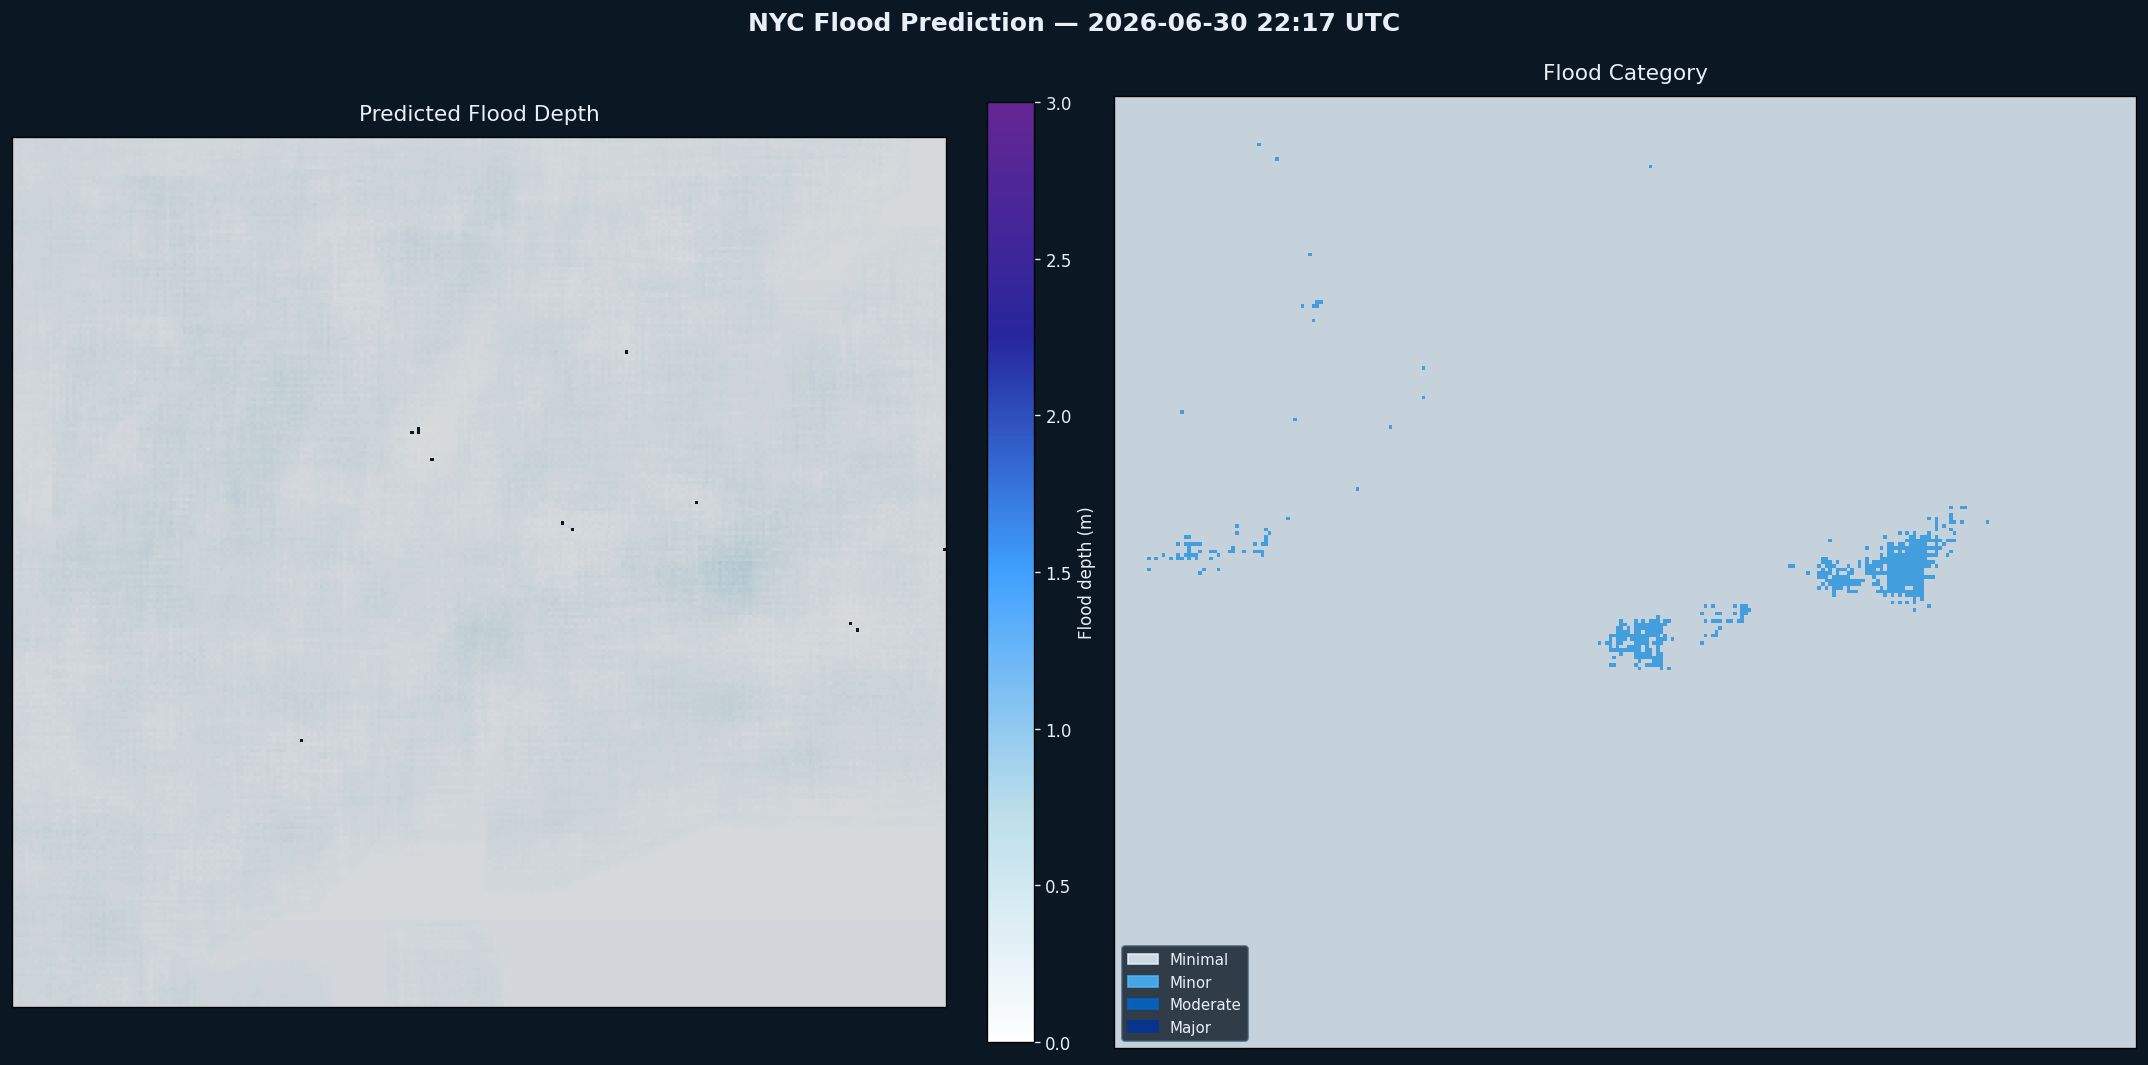
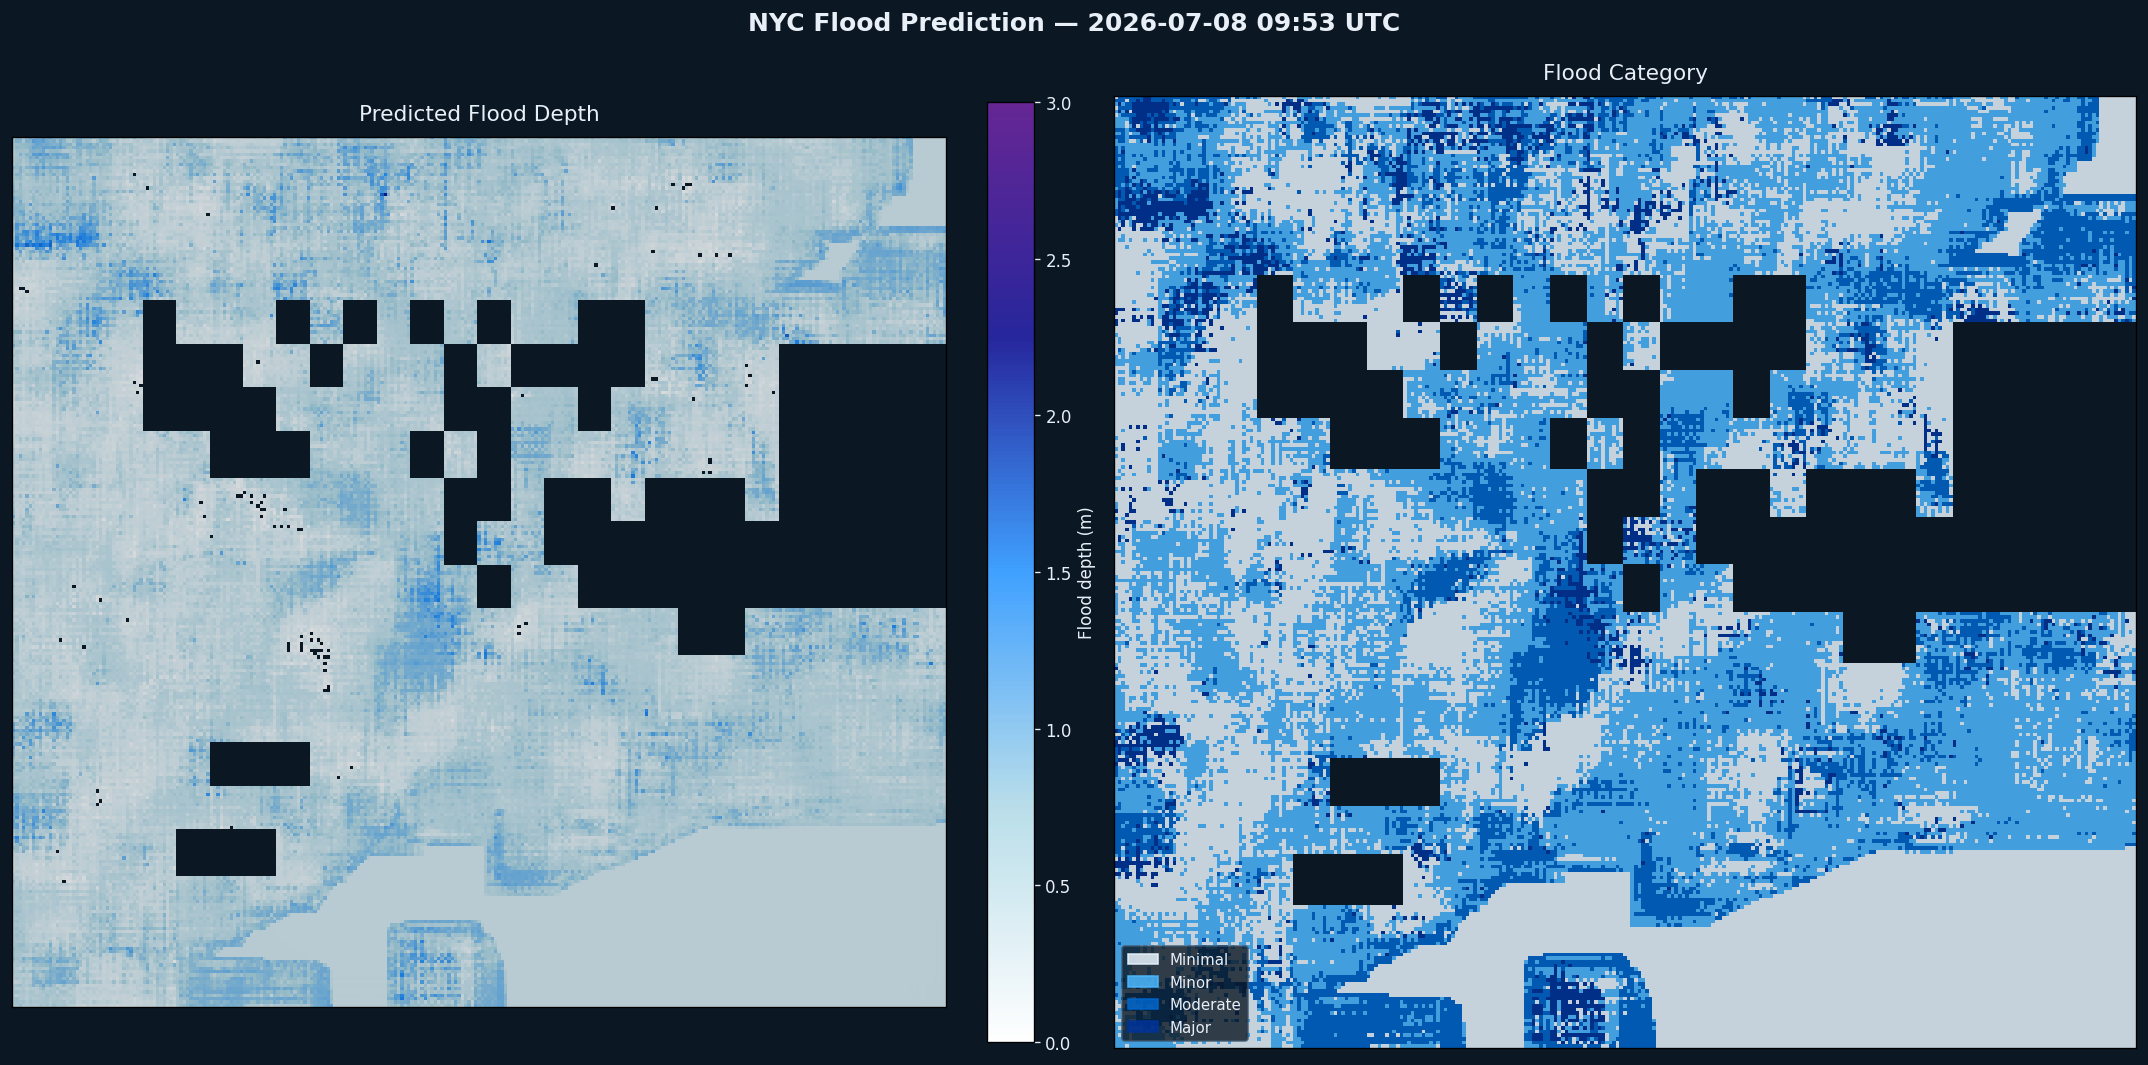
auto: GFS 2026-07-08T09:35 UTC

diff --git a/index.html b/index.html
@@ -66,7 +66,7 @@ th     { color:#7AADC6; font-weight:600; } td { color:#E8EFF7; }
 <body>
 <div id="app">
   <h1>NYC FloodNet — Live Flood Predictions</h1>
-  <div id="sub">24-hour flood depth forecast · GFS weather input · MMBTWithTabPFNLegacy · 300 m resolution · Updates every 6 h</div>
+  <div id="sub">24-hour flood depth forecast · GFS 3-day forecast input (72 h) · MMBTWithTabPFNLegacy · 300 m resolution · Updates every 6 h</div>
   <div id="map-wrap">
     <div id="map"></div>
     <div id="banner">Loading…</div>
@@ -83,22 +83,23 @@ th     { color:#7AADC6; font-weight:600; } td { color:#E8EFF7; }
   </div>
   <div id="stats"></div>
   <div id="weather" style="display:none">
-    <h2>Model Input — GFS Weather (past 24 h observed conditions used for inference)</h2>
+    <h2>Model Input — GFS Weather (past 72 h observed + next 72 h forecast used for inference)</h2>
     <p style="font-size:11px;color:#7AADC6;margin-bottom:8px">
-      The model ingests the past 144 h of GFS weather. These statistics summarise
-      the most recent 24 h window. The flood map above shows the predicted state
-      <strong>24 hours from the inference time</strong> (model lead time = 24 h).
+      The model ingests 72 h of observed GFS weather (windows [144, 120, 96]) and the
+      GFS 3-day forecast (windows [72, 48, 24]). The flood peak target is at
+      <strong>T_now + 24 h</strong> (window [72]); days 2–3 of GFS forecast provide
+      post-peak weather context. Precip totals cover the full 72 h forecast window.
     </p>
     <table id="wtbl">
       <thead><tr>
-        <th>Location</th><th>Precip past 24 h (mm)</th>
+        <th>Location</th><th>Forecast Precip 72 h (mm)</th>
         <th>Mean Temp (°C)</th><th>Max Wind (m/s)</th>
       </tr></thead>
       <tbody id="wtbody"></tbody>
     </table>
   </div>
   <div id="wx-chart-wrap">
-    <h2>Past 144 h Weather History — GFS Model Input</h2>
+    <h2>GFS Weather Input — Past 72 h Observed + Next 72 h Forecast</h2>
     <div class="chart-controls">
       <div>
         <label for="wx-loc">Location: </label>
@@ -121,8 +122,9 @@ th     { color:#7AADC6; font-weight:600; } td { color:#E8EFF7; }
     </div>
     <div id="wx-canvas-wrap"><canvas id="wx-canvas"></canvas></div>
     <p class="chart-note">
-      144 h window used as model input. The vertical dashed line marks inference time;
-      the flood map shows predicted conditions <strong>+24 h</strong> after that point.
+      Left of dashed line: past 72 h observed GFS (history). Right: next 72 h GFS 3-day forecast.
+      The flood map shows predicted conditions <strong>+24 h</strong> after inference time (flood peak target).
+      GFS days 2–3 (+24 to +72 h) provide post-peak weather context to the model.
     </p>
   </div>
 
@@ -211,15 +213,18 @@ async function load() {
   if (Object.keys(wx).length) {
     document.getElementById('weather').style.display = 'block';
     document.getElementById('wtbody').innerHTML = Object.entries(wx).map(([loc,w]) =>
-      '<tr><td>'+loc+'</td><td>'+w.precip_24h_mm+'</td><td>'
+      '<tr><td>'+loc+'</td><td>'+(w.precip_72h_mm ?? w.precip_24h_mm ?? '—')+'</td><td>'
       +w.temp_c_mean+'</td><td>'+w.wind_ms_max+'</td></tr>').join('');
   }
   const maxD = d.overlay_max_depth_m ?? (d.depth_range_m||[0,0])[1];
   let predTime = '';
-  if (d.timestamp_utc) {
-    const pred = new Date(new Date(d.timestamp_utc).getTime() + 24*3600*1000);
+  const predSrc = d.predicted_for || (d.timestamp_utc
+    ? new Date(new Date(d.timestamp_utc).getTime() + (d.lead_time_hours||24)*3600*1000).toISOString()
+    : null);
+  if (predSrc) {
+    const pred = new Date(predSrc);
     predTime = ' · Predicted for: ' + pred.toLocaleString('en-US',
-      {timeZone:'UTC',month:'short',day:'numeric',hour:'2-digit',minute:'2-digit'}) + ' UTC';
+      {timeZone:'UTC',month:'short',day:'numeric',hour:'2-digit',minute:'2-digit'}) + ' UTC (+24 h)';
   }
   document.getElementById('banner').textContent =
     'Max depth: ' + Number(maxD).toFixed(3) + ' m' + predTime;